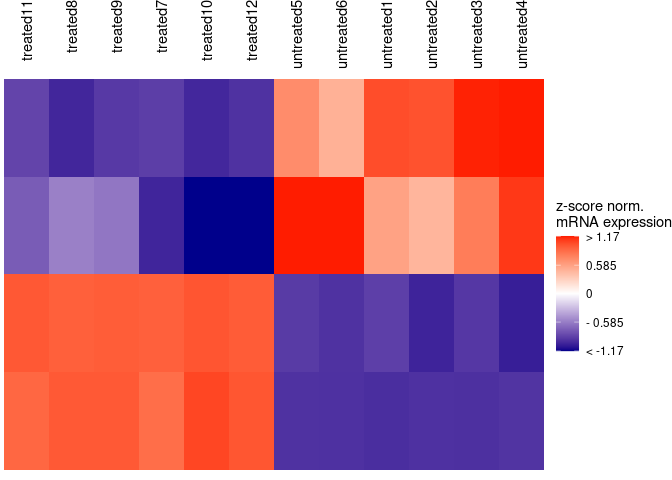
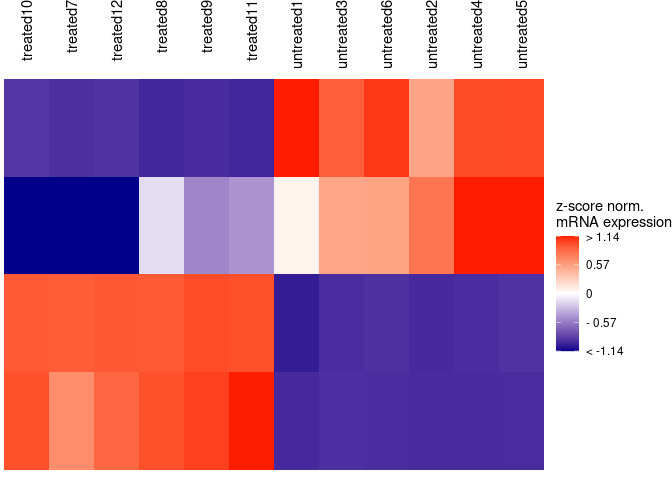
readme update

diff --git a/README.md b/README.md
@@ -35,12 +35,12 @@ df <- data.frame(samples = c(paste0("untreated", 1:6), paste0("treated", 7:12)),
 
 head(df)
 #>      samples     group  patient batch      var1      var2     var3      var4
-#> 1 untreated1 Untreated Patient1     1  9.635496  8.702448 47.30708 11.230937
-#> 2 untreated2 Untreated Patient2     2  9.383444 10.441290 46.90473  7.574859
-#> 3 untreated3 Untreated Patient3     1 10.105569  9.703693 49.90321 10.155978
-#> 4 untreated4 Untreated Patient1     2 10.785015 11.712117 51.88102  6.910724
-#> 5 untreated5 Untreated Patient2     1 10.971016 10.692509 41.26765 10.584639
-#> 6 untreated6 Untreated Patient3     2 11.318634 10.336982 37.23171  9.487518
+#> 1 untreated1 Untreated Patient1     1  8.860087  9.576637 54.89087  8.136007
+#> 2 untreated2 Untreated Patient2     2 10.270228 10.350721 41.93481  9.870465
+#> 3 untreated3 Untreated Patient3     1  9.745679 11.950407 49.93015 10.260266
+#> 4 untreated4 Untreated Patient1     2 11.278134 10.366831 51.77163 10.302243
+#> 5 untreated5 Untreated Patient2     1 11.842896 10.449707 51.88338 10.955875
+#> 6 untreated6 Untreated Patient3     2  9.784406 11.261815 53.28463 10.889926
 
 heatmap_plot <- simpleHM(df, excluded_vars = "batch")    
 #> normalisation done
@@ -116,7 +116,7 @@ distance between branches. For this purpose, the `pull_top` and
 through rotation along the branches of the tree.
 
 ``` r
-simpleHM(df, excluded_vars = "batch", add_dendros = T )
+p1 <- simpleHM(df, excluded_vars = "batch", add_dendros = T )
 #> normalisation done
 #> clustering samples done
 #> clustering params done
@@ -125,48 +125,35 @@ simpleHM(df, excluded_vars = "batch", add_dendros = T )
 #> Adding another scale for y, which will replace the existing scale.
 #> Scale for x is already present.
 #> Adding another scale for x, which will replace the existing scale.
+p2 <- simpleHM(df, excluded_vars = "batch", add_dendros = T, pull_top = 7:12)
+#> normalisation done
+#> clustering samples done
+#> clustering params done
+#> plotting now
+#> Scale for y is already present.
+#> Adding another scale for y, which will replace the existing scale.Scale for x is already present.
+#> Adding another scale for x, which will replace the existing scale.
+p3 <- simpleHM(df, excluded_vars = "batch", add_dendros = T, pull_side = 3:4)
+#> normalisation done
+#> clustering samples done
+#> clustering params done
+#> plotting now
+#> Scale for y is already present.
+#> Adding another scale for y, which will replace the existing scale.Scale for x is already present.
+#> Adding another scale for x, which will replace the existing scale.
+p4 <- simpleHM(df, excluded_vars = "batch", add_dendros = T, pull_side = c("var1", "var3"))
+#> normalisation done
+#> clustering samples done
+#> clustering params done
+#> plotting now
+#> Scale for y is already present.
+#> Adding another scale for y, which will replace the existing scale.Scale for x is already present.
+#> Adding another scale for x, which will replace the existing scale.
+
+patchwork::wrap_plots(p1, p2, p3, p4, guides = "collect", ncol = 2)
 ```
 
 <img src="man/figures/README-unnamed-chunk-5-1.png" width="100%" />
-
-``` r
-simpleHM(df, excluded_vars = "batch", add_dendros = T, pull_top = 7:12)
-#> normalisation done
-#> clustering samples done
-#> clustering params done
-#> plotting now
-#> Scale for y is already present.
-#> Adding another scale for y, which will replace the existing scale.Scale for x is already present.
-#> Adding another scale for x, which will replace the existing scale.
-```
-
-<img src="man/figures/README-unnamed-chunk-5-2.png" width="100%" />
-
-``` r
-simpleHM(df, excluded_vars = "batch", add_dendros = T, pull_side = 3:4)
-#> normalisation done
-#> clustering samples done
-#> clustering params done
-#> plotting now
-#> Scale for y is already present.
-#> Adding another scale for y, which will replace the existing scale.Scale for x is already present.
-#> Adding another scale for x, which will replace the existing scale.
-```
-
-<img src="man/figures/README-unnamed-chunk-5-3.png" width="100%" />
-
-``` r
-simpleHM(df, excluded_vars = "batch", add_dendros = T, pull_side = c("var1", "var3"))
-#> normalisation done
-#> clustering samples done
-#> clustering params done
-#> plotting now
-#> Scale for y is already present.
-#> Adding another scale for y, which will replace the existing scale.Scale for x is already present.
-#> Adding another scale for x, which will replace the existing scale.
-```
-
-<img src="man/figures/README-unnamed-chunk-5-4.png" width="100%" />
 
 These options can also be combined:
 
